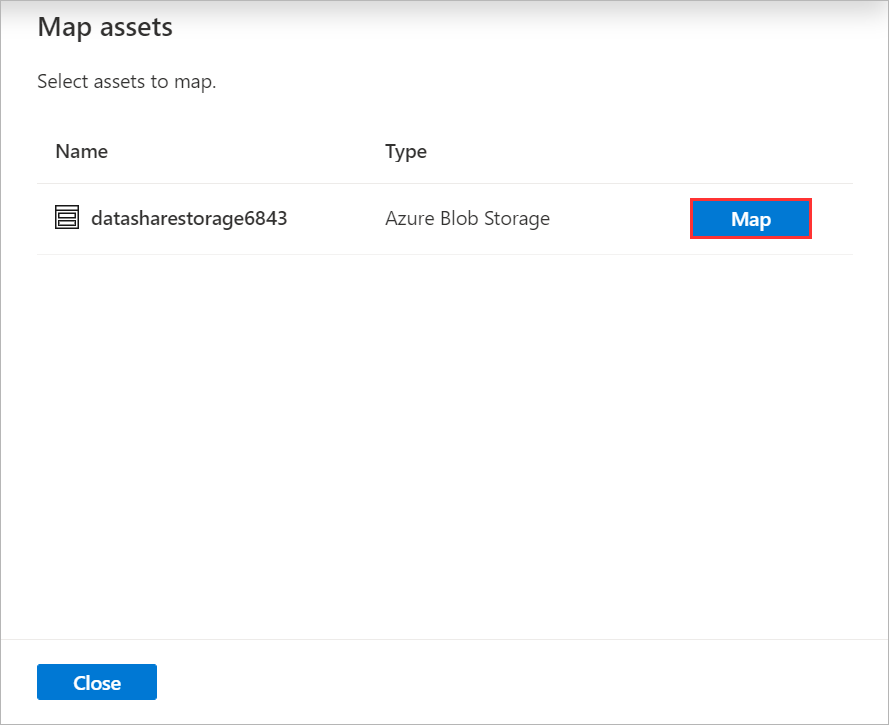
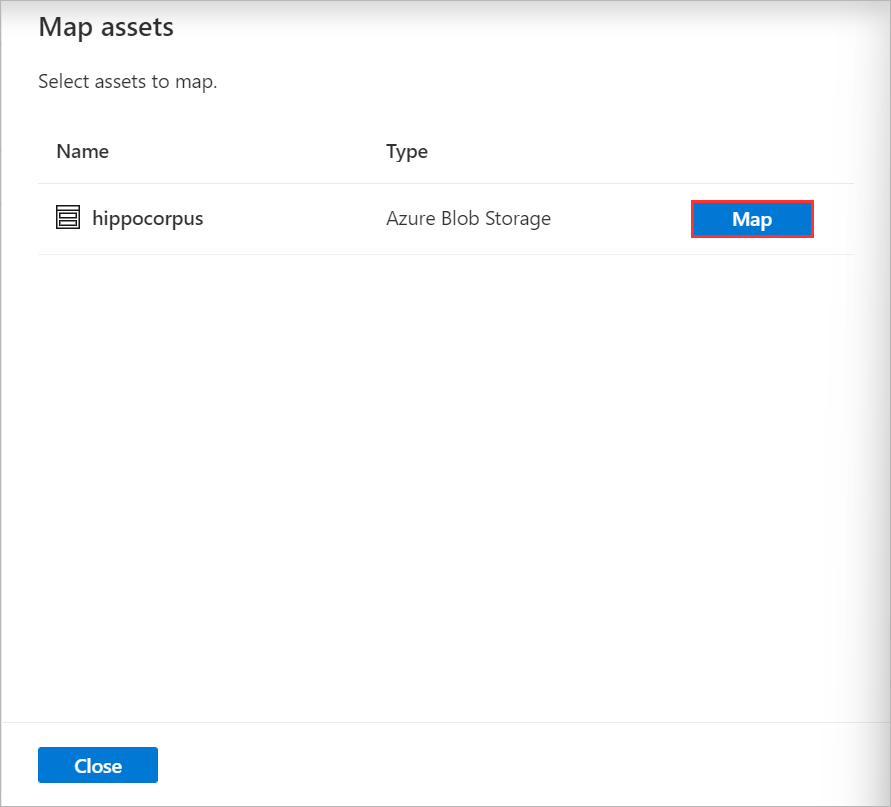
module16

diff --git a/modules/module16.md b/modules/module16.md
@@ -236,7 +236,7 @@ Data sharing within Microsoft Purview allows data providers to share data with d
 
     ![ALT](/images/module16/16.37.png)
 
-6. Click **OK**.
+6. Optionally rename the asset (e.g. `hippocorpus`), optionally rename the path (e.g. `files`), then click **OK**.
 
     ![ALT](/images/module16/16.38.png)
 
